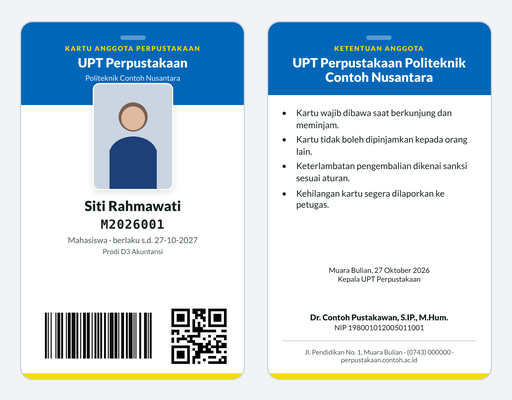
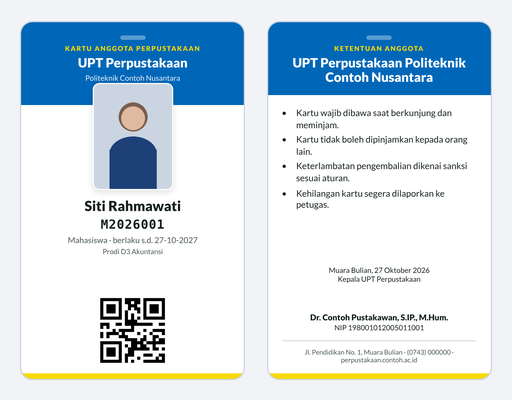
bulian-kartu-potret: show either QR or barcode, chosen by "Pakai QR"
Both codes carry the same member ID, so the front now shows one of them:
QR when use_qr is 1 (default), Code128 barcode across the card when 0.
This replaces the show_qr toggle and the long-ID stacked layout.

Claude-Session: https://claude.ai/code/session_01KXP1H8cJcym165aLtWxdw4

Changed region(s): [[0.0625, 0.72, 0.4688, 0.93]]

diff --git a/files/membercard/bulian-kartu-potret/membercard.php b/files/membercard/bulian-kartu-potret/membercard.php
@@ -21,7 +21,8 @@ require_once __DIR__ . '/../bulian-kartu/card-lib.inc.php';
 $bk_primary = bk_card_color($bk_conf['primary_color'] ?? '', '#0067B8');
 $bk_accent = bk_card_color($bk_conf['accent_color'] ?? '', '#F9DA00');
 [$bk_w, $bk_h] = bk_card_size($bk_conf, true);
-$bk_show_qr = (int)($bk_conf['show_qr'] ?? 1) === 1;
+// QR dan barcode berisi nomor anggota yang sama; kartu memuat salah satu saja
+$bk_use_qr = (int)($bk_conf['use_qr'] ?? 1) === 1;
 $bk_duplex = ($bk_conf['sheet_layout'] ?? 'pair') === 'duplex';
 $bk_font_path = $card_path . '../bulian-kartu/fonts/';
 
@@ -48,15 +49,11 @@ foreach (array_merge(...array_values($chunked_card_arrays ?: [[]])) as $card) {
   if (!empty($card['member_image']) && is_file(IMGBS . 'persons' . DS . basename($card['member_image']))) {
     $photo = SWB . IMG . '/persons/' . rawurlencode(basename($card['member_image']));
   }
-  $barcode = bk_card_barcode($member_id);
-  // barcode di samping QR selebar ~29 mm; nomor panjang (garis < 0,2 mm) dapat baris sendiri
-  $modules = $barcode && preg_match('/viewBox="0 0 ([\d.]+)/', $barcode, $m) ? (float)$m[1] : 0;
   $bk_cards[] = $card + [
     'id' => $member_id,
     'photo' => $photo,
-    'barcode' => $barcode,
-    'qr' => $bk_show_qr ? bk_card_qr($member_id) : null,
-    'wide' => $bk_show_qr && $modules > 145,
+    'qr' => $bk_use_qr ? bk_card_qr($member_id) : null,
+    'barcode' => $bk_use_qr ? null : bk_card_barcode($member_id),
   ];
 }
 
@@ -102,13 +99,14 @@ $bk_front = function ($card) use ($bk_conf) {
         <p class="inst"><?= bk_card_text($card['inst_name']) ?></p>
         <?php endif; ?>
       </div>
-      <div class="codes<?= $card['wide'] ? ' wide' : '' ?><?= $card['qr'] ? '' : ' no-qr' ?>">
-        <div class="barcode">
-          <?php if ($card['barcode']) : echo $card['barcode']; else : ?>
-          <img src="<?= SWB . IMG . '/barcodes/' . rawurlencode(str_replace(' ', '_', $card['id'])) ?>.png" alt="Barcode <?= bk_card_text($card['id']) ?>">
-          <?php endif; ?>
-        </div>
-        <?php if ($card['qr']) : ?><div class="qr"><?= $card['qr'] ?></div><?php endif; ?>
+      <div class="codes">
+        <?php if ($card['qr']) : ?>
+        <div class="qr"><?= $card['qr'] ?></div>
+        <?php elseif ($card['barcode']) : ?>
+        <div class="barcode"><?= $card['barcode'] ?></div>
+        <?php else : ?>
+        <div class="barcode"><img src="<?= SWB . IMG . '/barcodes/' . rawurlencode(str_replace(' ', '_', $card['id'])) ?>.png" alt="Barcode <?= bk_card_text($card['id']) ?>"></div>
+        <?php endif; ?>
       </div>
       <div class="stripe"></div>
     </section>
@@ -190,16 +188,10 @@ p { margin: 0; }
 .who .id { font-family: 'DejaVu Sans Mono', 'Consolas', 'Courier New', monospace; font-size: 3mm; font-weight: 700; letter-spacing: 0.04em; }
 .who .meta { font-size: 1.95mm; color: #4B5A57; }
 .who .inst { font-size: 1.7mm; color: #4B5A57; max-width: 100%; white-space: nowrap; overflow: hidden; text-overflow: ellipsis; }
-.codes { margin-top: auto; width: 100%; padding: 0 3.5mm 3mm; display: flex; align-items: center; justify-content: space-between; gap: 1.8mm; }
-.codes .barcode { flex: 1; min-width: 0; height: 11mm; }
-.codes .barcode svg, .codes .barcode img { width: 100%; height: 100%; display: block; }
-.codes .qr { flex: 0 0 14.5mm; height: 14.5mm; }
-.codes .qr svg { width: 100%; height: 100%; display: block; }
-/* nomor anggota panjang: barcode selebar kartu, QR di bawahnya */
-.codes.wide { flex-direction: column; gap: 1.2mm; }
-.codes.wide .barcode { flex: 0 0 8mm; width: 100%; }
-.codes.wide .qr { flex: 0 0 10.5mm; width: 10.5mm; height: 10.5mm; }
-.codes.no-qr .barcode { height: 12mm; }
+.codes { margin-top: auto; width: 100%; padding: 0 3.5mm 3mm; display: flex; justify-content: center; }
+.codes .qr { width: 17mm; height: 17mm; }
+.codes .barcode { width: 100%; height: 12mm; }
+.codes svg, .codes img { width: 100%; height: 100%; display: block; }
 
 /* sisi belakang */
 .back .head { padding-bottom: 2.6mm; }

diff --git a/files/membercard/bulian-kartu-potret/tinfo.inc.php b/files/membercard/bulian-kartu-potret/tinfo.inc.php
@@ -90,12 +90,13 @@ $sysconf['print'][$theme_key] = [
     'default' => $bk_h,
     'width' => '20'
   ],
-  'show_qr' => [
-    'dbfield' => 'data[show_qr]',
-    'label' => 'QR buku tamu di sisi depan',
+  // QR dan barcode berisi nilai yang sama (nomor anggota), jadi kartu cukup memuat salah satu
+  'use_qr' => [
+    'dbfield' => 'data[use_qr]',
+    'label' => 'Pakai QR',
     'type' => 'dropdown',
-    'default' => $bk['show_qr'] ?? 1,
-    'data' => [[1, 'Tampilkan'], [0, 'Sembunyikan']]
+    'default' => $bk['use_qr'] ?? 1,
+    'data' => [[1, 'Ya, hanya QR'], [0, 'Tidak, hanya barcode (Code128)']]
   ],
   'rules' => [
     'dbfield' => 'data[rules]',

diff --git a/CHANGELOG-bulian.md b/CHANGELOG-bulian.md
@@ -10,7 +10,7 @@ Riwayat SLiMS upstream ada di `changes.txt`.
 - Aksesibilitas tema `bulian-kampus`: ukuran teks, mode kontras tinggi, tautan "Langsung ke konten", fokus keyboard terlihat, dan font lokal (Lato, Saira).
 - Buku tamu tema `bulian-kampus` menjadi kiosk pindai kartu: pemindai USB barcode/QR, kamera opsional (QR, Code128, Code39, EAN-13; butuh HTTPS), penolakan pindai ganda, dan form tamu otomatis untuk ID yang tidak terdaftar.
 - Tema kartu anggota baru `bulian-kartu` (CR80) dengan barcode Code128 di depan dan QR buku tamu di belakang, keduanya digambar sebagai SVG.
-- Tema kartu anggota tegak `bulian-kartu-potret` (CR80 5,4 × 8,6 cm, untuk lanyard) sesuai mockup: foto di tengah, barcode Code128 dan QR di depan, ketentuan dan tanda tangan di belakang. Lembar A4 bisa berdampingan (3 anggota per halaman) atau bolak-balik (9 kartu, sisi belakang dicerminkan). Ukuran kartu yang tersimpan dari tema lanskap dibalik otomatis.
+- Tema kartu anggota tegak `bulian-kartu-potret` (CR80 5,4 × 8,6 cm, untuk lanyard) sesuai mockup: foto di tengah, QR atau barcode Code128 di depan (setelan "Pakai QR": Ya = hanya QR, Tidak = hanya barcode; isinya sama, nomor anggota), ketentuan dan tanda tangan di belakang. Lembar A4 bisa berdampingan (3 anggota per halaman) atau bolak-balik (9 kartu, sisi belakang dicerminkan). Ukuran kartu yang tersimpan dari tema lanskap dibalik otomatis.
 - Panduan: `docs/fork/tema-kampus-dan-kartu.md`.
 - Footer OPAC tema `bulian-kampus` mencantumkan pembuat tema: "Tema oleh CV. Mitra Coretech" (tautan ke https://www.mitracoretech.id) di samping "Ditenagai oleh SLiMS". Tampilannya diatur di Kustomisasi tema ("Kredit pembuat tema"): Tampil, Samar (teks kecil, tautan tetap terlihat), atau Sembunyi (hanya meta tag `designer`).
 

diff --git a/docs/fork/tema-kampus-dan-kartu.md b/docs/fork/tema-kampus-dan-kartu.md
@@ -181,9 +181,11 @@ sama. Kartu CR80 tegak (5,4 × 8,6 cm) untuk lanyard.
 
 - Depan: penanda lubang lanyard, judul kartu, nama perpustakaan dan perguruan
   tinggi, foto 3×4, nama (maks. 2 baris), nomor anggota, jenis anggota dan
-  masa berlaku, instansi/prodi, barcode Code128 dan QR (bisa disembunyikan).
-  Nomor anggota yang terlalu panjang untuk barcode di samping QR (garis di
-  bawah 0,2 mm) otomatis memakai barcode selebar kartu dengan QR di bawahnya.
+  masa berlaku, instansi/prodi, lalu satu kode: QR **atau** barcode Code128.
+- **Pakai QR** di Customize: "Ya" = hanya QR, "Tidak" = hanya barcode.
+  Keduanya berisi nomor anggota yang sama, jadi cukup satu. Pilih "Tidak"
+  bila pemindai sirkulasi hanya membaca barcode 1D; kiosk buku tamu membaca
+  keduanya.
 - Belakang: ketentuan anggota, kota/tanggal, jabatan, tanda tangan dan
   stempel (`signature.png`/`stamp.png` di folder `images/` tema ini), nama dan
   NIP pejabat, alamat.
